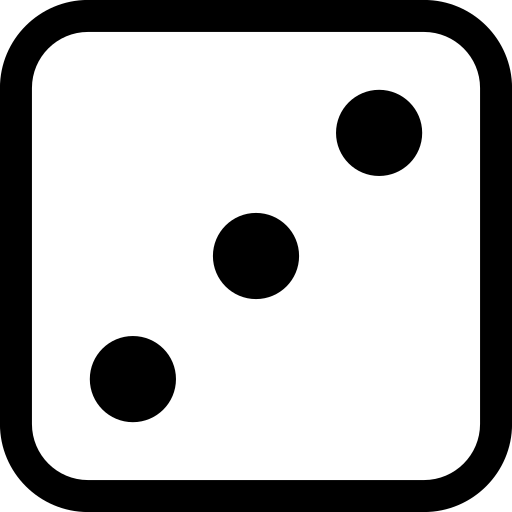
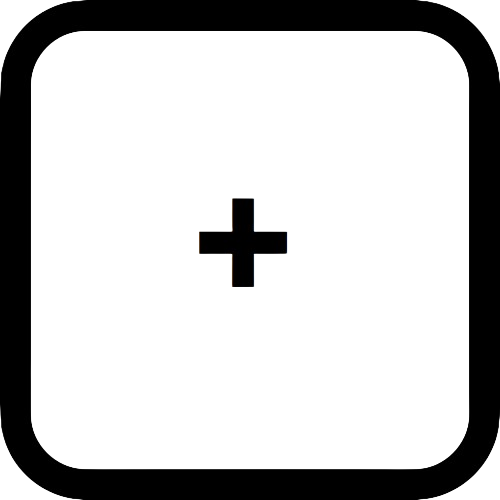
all special dice and better card size

diff --git a/mentematiko/lib/play_session/dice_widget.dart b/mentematiko/lib/play_session/dice_widget.dart
@@ -5,6 +5,9 @@ import 'package:card/game_internals/dice.dart';
 import 'package:flutter/material.dart';
 import 'playing_card_widget.dart';
 
+//indica il tipo di dado in base alle facce 6, 10, 20 
+int diceType = 6;
+
 class DiceWidget extends StatefulWidget {
   final Dice area;
 
@@ -16,14 +19,8 @@ class DiceWidget extends StatefulWidget {
 
 class _DiceWidgetState extends State<DiceWidget> with SingleTickerProviderStateMixin {
   bool isHighlighted = false;
-  final List<String> diceImages = [
-    'assets/dice/dice.png',
-    'assets/dice/dice (1).png',
-    'assets/dice/dice (2).png',
-    'assets/dice/dice (3).png',
-    'assets/dice/dice (4).png',
-    'assets/dice/dice (5).png',
-  ];
+  
+  List<String> diceImages = [];
 
   AnimationController? _diceAnimationController;
   late AudioPlayer _audioPlayer;
@@ -32,10 +29,60 @@ class _DiceWidgetState extends State<DiceWidget> with SingleTickerProviderStateM
   @override
   void initState() {
     super.initState();
+    switch(diceType) {
+      case 6:
+        diceImages = [
+        'assets/dice/dice.png', //simbolo per
+        'assets/dice/dice (1).png', //simbolo -
+        'assets/dice/dice (2).png', //simbolo +
+        'assets/dice/dice (3).png', //simbolo :
+        'assets/dice/dice (4).png', //simbolo =
+        'assets/dice/dice (5).png', //simbolo >
+      ];
+      break;
+    case 10:
+        diceImages = [
+        'dice/d10-1.png',
+        'dice/d10-2.png',
+        'dice/d10-3.png',
+        'dice/d10-4.png',
+        'dice/d10-5.png',
+        'dice/d10-6.png',
+        'dice/d10-7.png',
+        'dice/d10-8.png',
+        'dice/d10-9.png',
+        'dice/d10-10.png',
+      ];     
+      break;
+    case 20:
+        diceImages = [
+        'dice/d20-1.png',
+        'dice/d20-2.png',
+        'dice/d20-3.png',
+        'dice/d20-4.png',
+        'dice/d20-5.png',
+        'dice/d20-6.png',
+        'dice/d20-7.png',
+        'dice/d20-8.png',
+        'dice/d20-9.png',
+        'dice/d20-10.png',
+        'dice/d20-11.png',
+        'dice/d20-12.png',
+        'dice/d20-13.png',
+        'dice/d20-14.png',
+        'dice/d20-15.png',
+        'dice/d20-16.png',
+        'dice/d20-17.png',
+        'dice/d20-18.png',
+        'dice/d20-19.png',
+        'dice/d20-20.png',
+      ];
+      break;
+    }
     _audioPlayer = AudioPlayer();
     _diceAnimationController = AnimationController(
       vsync: this,
-      duration: Duration(milliseconds: 1100),
+      duration: Duration(milliseconds: 910),
     );
     final tween = Tween<double>(begin: 0, end: 1);
     _diceAnimation = tween.animate(_diceAnimationController!);
@@ -59,14 +106,15 @@ class _DiceWidgetState extends State<DiceWidget> with SingleTickerProviderStateM
     _playDiceSound();
   }
 
-  void _startDiceAnimation() {
-    _diceAnimationController?.forward();
+  Future<void> _startDiceAnimation() async {
+    await _diceAnimationController?.forward();
+    _diceAnimationController?.reset();
   }
 
   @override
   Widget build(BuildContext context) {
     final random = Random();
-    final diceFace = random.nextInt(6) + 1;
+    final diceFace = random.nextInt(diceImages.length) + 1;
 
     return LimitedBox(
       maxHeight: 200,
@@ -126,24 +174,46 @@ class __DiceState extends State<_Dice> with SingleTickerProviderStateMixin {
 
   @override
   Widget build(BuildContext context) {
-    return Center(
-      child: Container(
-        width: 100,
-        height: 100,
-        child: Image.asset(
-          widget.image,
-          fit: BoxFit.cover,
-          frameBuilder: (context, image, frame, callback) {
-            if (frame == null) {
-              return Container();
-            }
-            return Transform.rotate(
-              angle: widget.animation.value * 2 * pi,
-              child: image,
-            );
-          },
+    if(diceType == 6){
+      return Center(
+        child: Container(
+          width: 120,
+          height: 120,
+          child: Image.asset(
+            widget.image,
+            fit: BoxFit.cover,
+            frameBuilder: (context, image, frame, callback) {
+              if (frame == null) {
+                return Container();
+              }
+              return Transform.rotate(
+                angle: widget.animation.value * 2 * pi,
+                child: image,
+              );
+            },
+          ),
         ),
-      ),
-    );
+      );
+    } else {
+      return Center(
+        child: Container(
+          width: 120,
+          height: 160,
+          child: Image.asset(
+            widget.image,
+            fit: BoxFit.cover,
+            frameBuilder: (context, image, frame, callback) {
+              if (frame == null) {
+                return Container();
+              }
+              return Transform.rotate(
+                angle: widget.animation.value * 2 * pi,
+                child: image,
+              );
+            },
+          ),
+        ),
+      );
+    }
   }
 }

diff --git a/mentematiko/lib/game_internals/playing_card.dart b/mentematiko/lib/game_internals/playing_card.dart
@@ -2,22 +2,16 @@ import 'dart:math';
 
 import 'package:flutter/foundation.dart';
 
-import 'card_suit.dart';
-
 @immutable
 class PlayingCard {
   static final _random = Random();
 
-  final CardSuit suit;
-
   final int value;
 
-  const PlayingCard(this.suit, this.value);
+  const PlayingCard(this.value);
 
   factory PlayingCard.fromJson(Map<String, dynamic> json) {
     return PlayingCard(
-      CardSuit.values
-          .singleWhere((e) => e.internalRepresentation == json['suit']),
       json['value'],
     );
   }
@@ -25,26 +19,21 @@ class PlayingCard {
   factory PlayingCard.random([Random? random]) {
     random ??= _random;
     return PlayingCard(
-      CardSuit.values[random.nextInt(CardSuit.values.length)],
-      2 + random.nextInt(9),
+      2 + random.nextInt(9)
     );
   }
 
   @override
-  int get hashCode => Object.hash(suit, value);
-
-  @override
   bool operator ==(Object other) {
-    return other is PlayingCard && other.suit == suit && other.value == value;
+    return other is PlayingCard && other.value == value;
   }
 
   Map<String, dynamic> toJson() => {
-    'suit': suit.internalRepresentation,
     'value': value,
   };
 
   @override
   String toString() {
-    return '$suit$value';
+    return '$value';
   }
 }

diff --git a/mentematiko/lib/play_session/playing_card_widget.dart b/mentematiko/lib/play_session/playing_card_widget.dart
@@ -3,10 +3,8 @@ import 'package:provider/provider.dart';
 
 import '../audio/audio_controller.dart';
 import '../audio/sounds.dart';
-import '../game_internals/card_suit.dart';
 import '../game_internals/player.dart';
 import '../game_internals/playing_card.dart';
-import '../style/palette.dart';
 
 class PlayingCardImage {
   final String imagePath;
@@ -32,8 +30,8 @@ final List<PlayingCardImage> cardImages = [
 ];
 
 class PlayingCardWidget extends StatelessWidget {
-  static const double width = 57.1;
-  static const double height = 88.9;
+  static const double width = 61;
+  static const double height = 101.9;
 
   final PlayingCard card;
   final Player? player;
